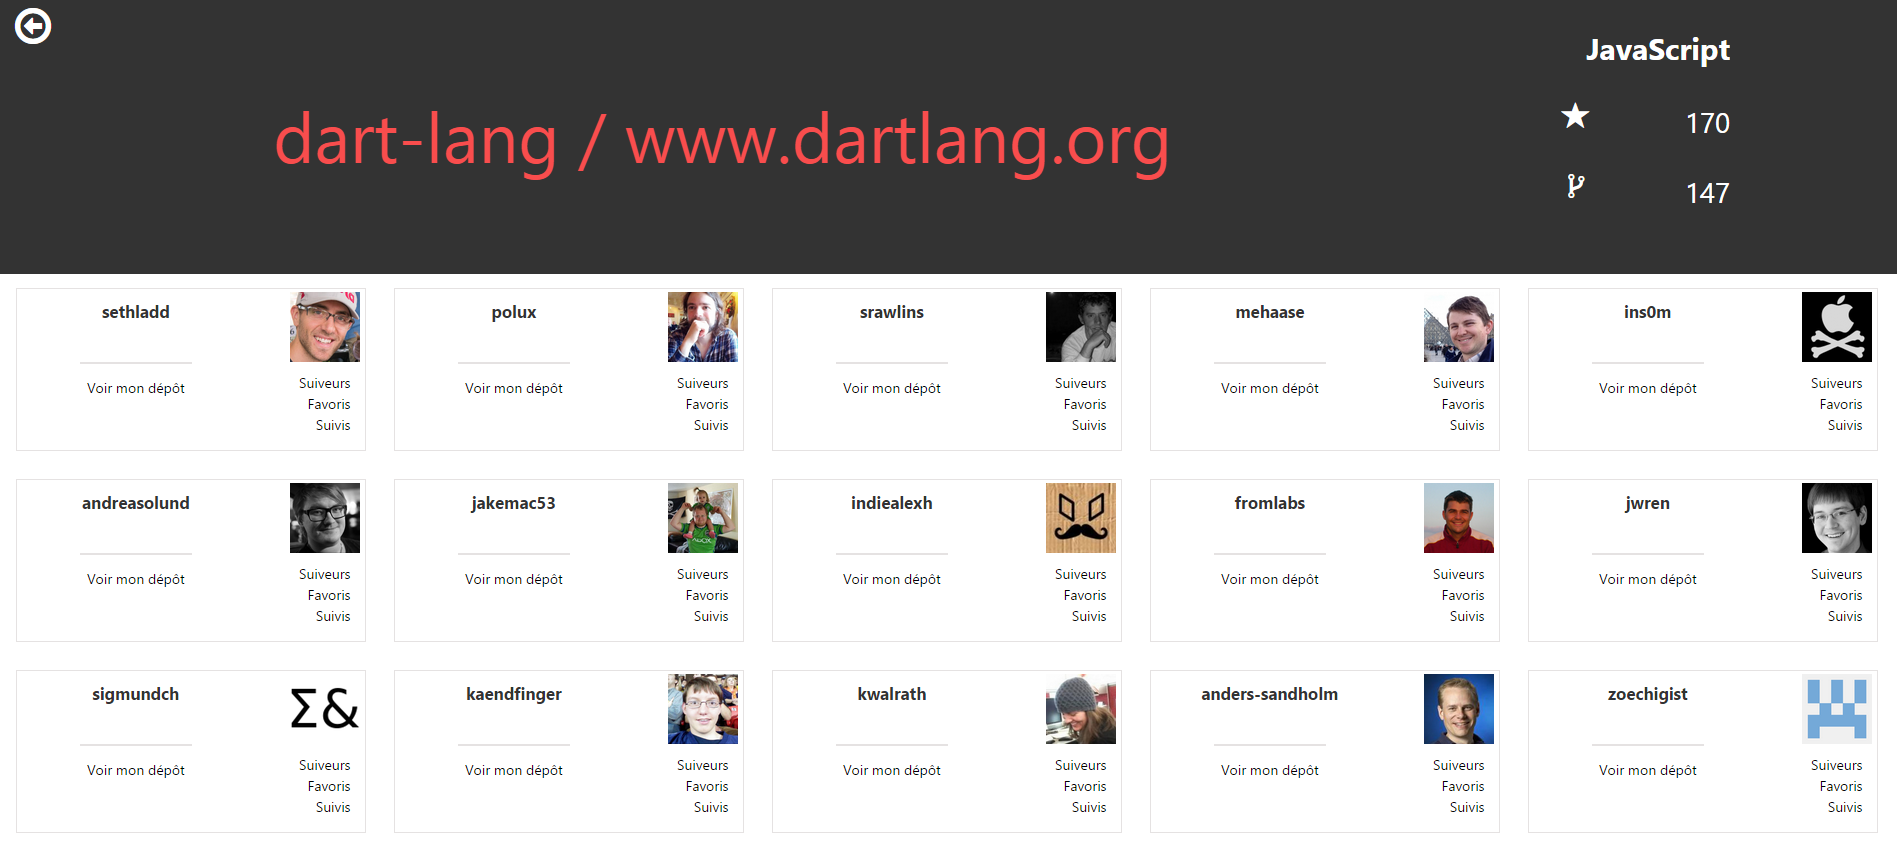
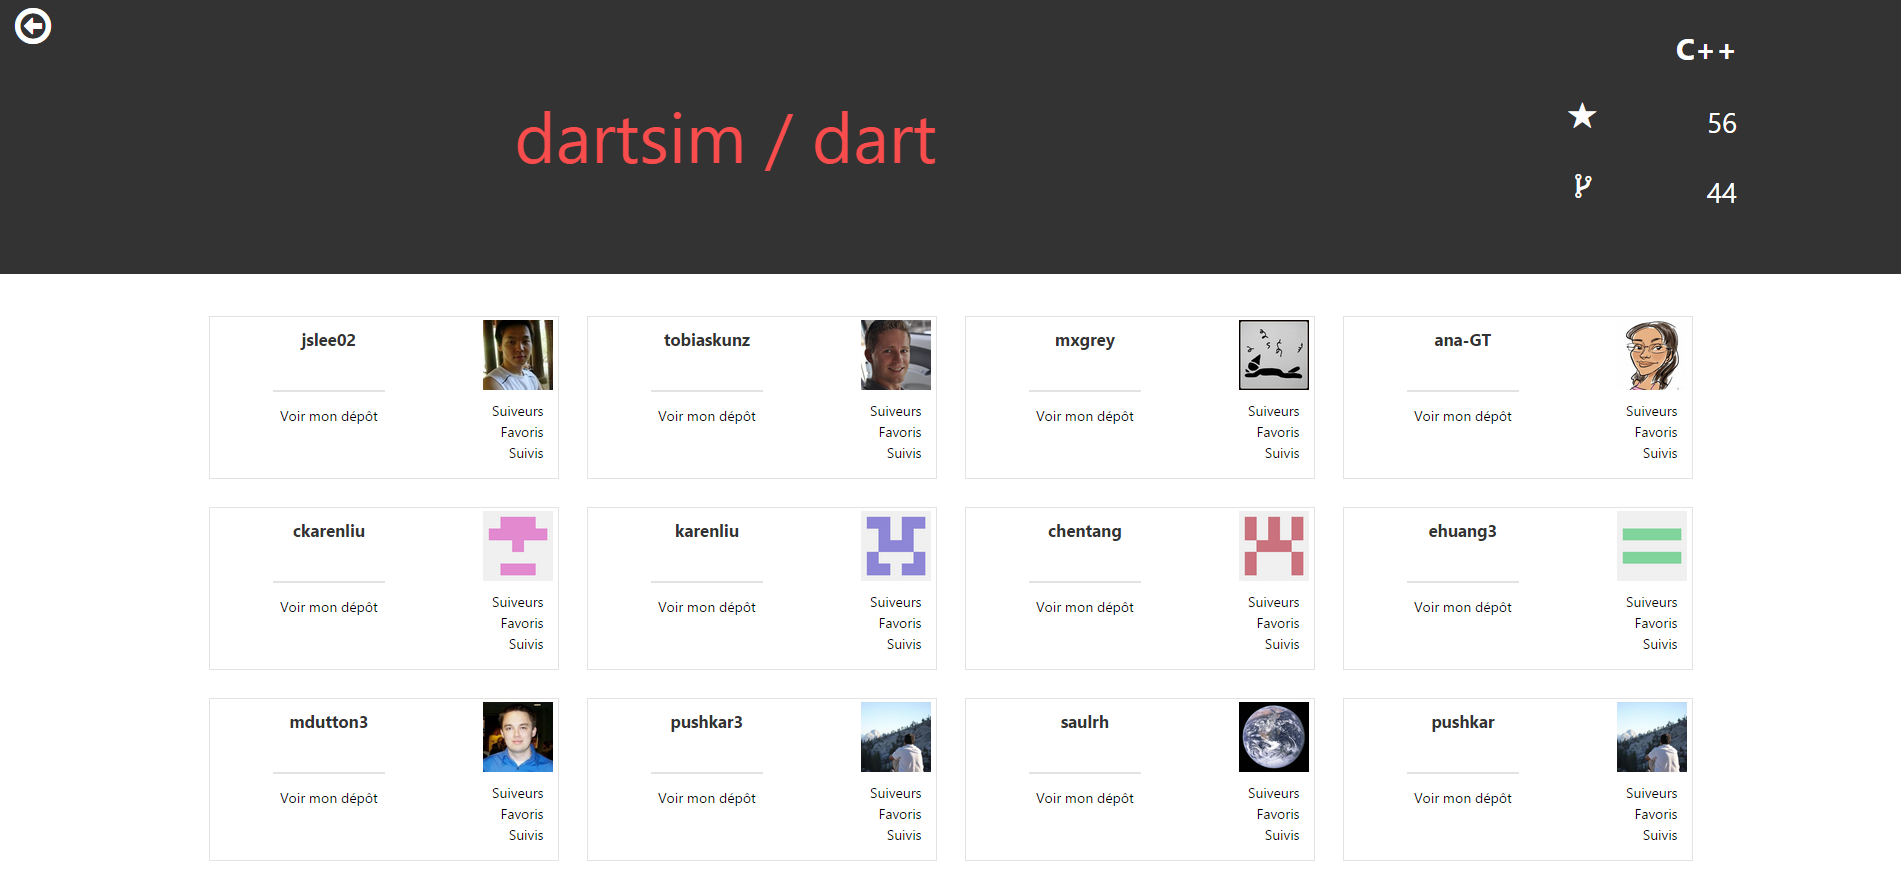
Correction de la mise en page du détail d'un repo et changement de screen du home.

diff --git a/build/style.css b/build/style.css
@@ -232,7 +232,8 @@ body {
         margin-right: 0.5em;
         line-height: 1em; }
     .repositories-component .repositories-header .form > div {
-      width: 100%; }
+      width: 100%;
+      max-width: 40em; }
     .repositories-component .repositories-header .form button {
       max-width: 10em;
       width: 100%; }
@@ -526,7 +527,8 @@ body {
         text-align: center;
         float: left; }
 .repository-component .repository-container {
-  text-align: center; }
+  text-align: center;
+  padding: 2em; }
   .repository-component .repository-container .graph-container {
     margin: 3em 0 3em 0; }
     .repository-component .repository-container .graph-container .title {

diff --git a/css/components/repository.scss b/css/components/repository.scss
@@ -71,6 +71,7 @@
 
   .repository-container {
     text-align: center;
+    padding: 2em;
 
     .graph-container {
       margin: 3em 0 3em 0;

diff --git a/css/components/repositories.scss b/css/components/repositories.scss
@@ -71,6 +71,7 @@
 
       > div {
         width: 100%;
+        max-width: 40em;
       }
 
       button {
